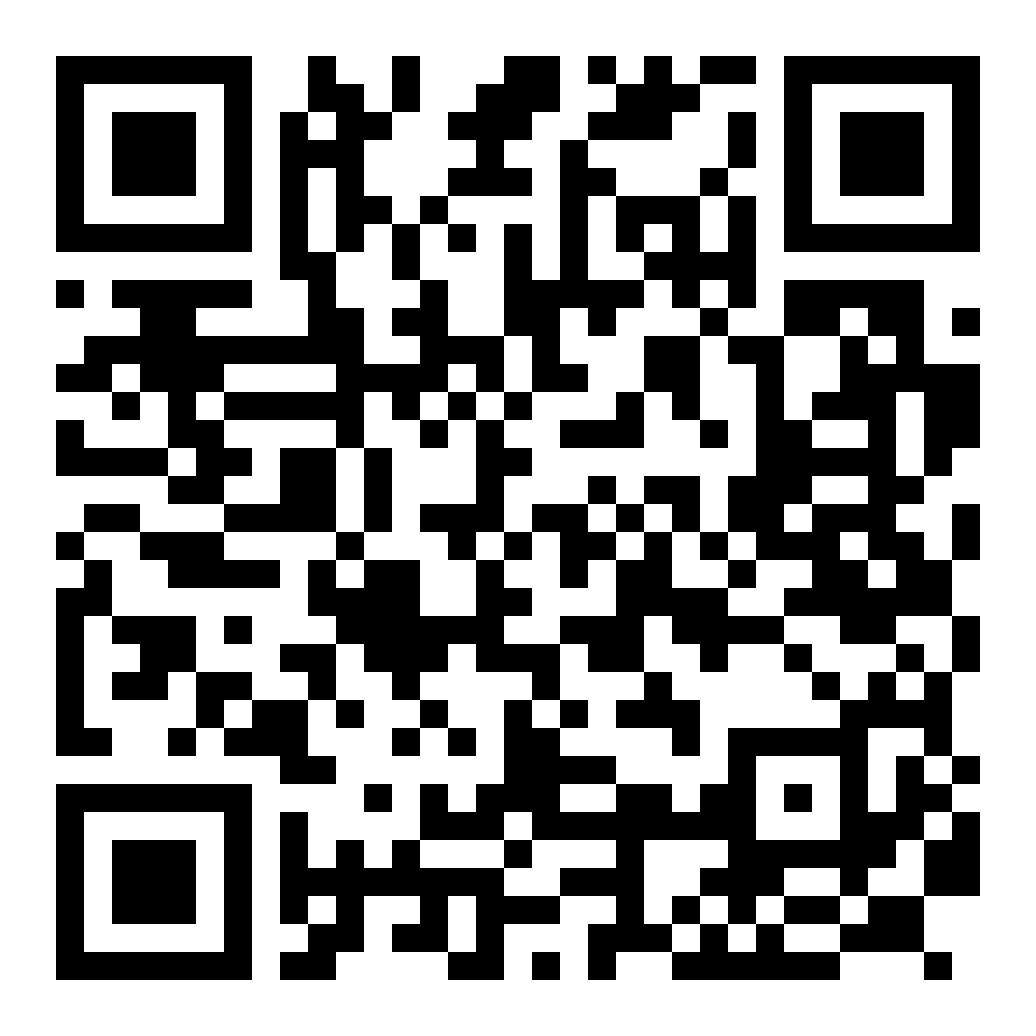
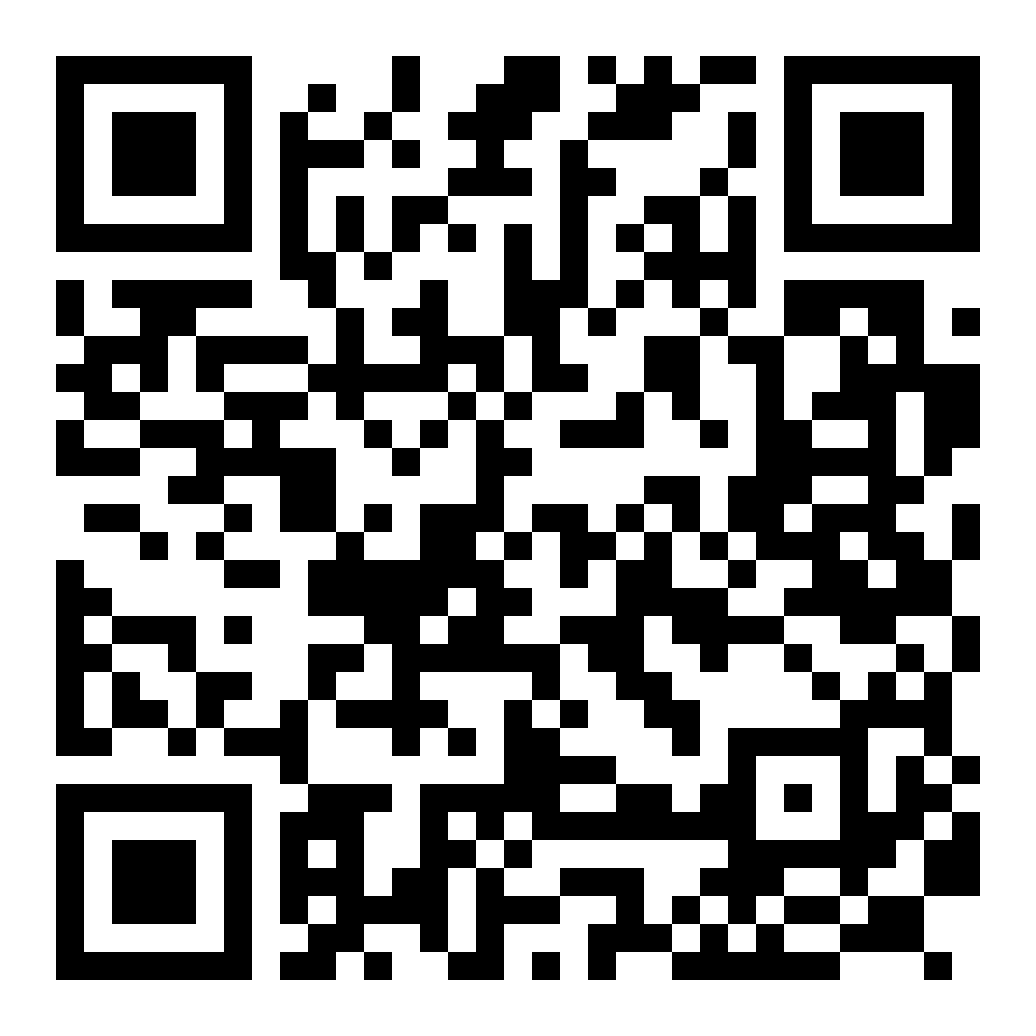
Rename the phone prototype address from /try/ to /app/ and regenerate QR codes
Claude-Session: https://claude.ai/code/session_01W2RcS5fTffBiTh2Dfycv8M

diff --git a/design/qr/README.md b/design/qr/README.md
@@ -2,7 +2,7 @@
 
 > Prepared with AI assistance; to be reviewed by the team. Updated 11 Nov 2026 (decision 31).
 
-Both images open **https://panda-king-0705.github.io/silverguard-ai/try/**, the phone version of the clickable prototype (`try/index.html`, a copy of `design/clickable-screens/app.html`) served as a plain web page by GitHub Pages. No Claude login needed. Each scan opens a separate copy on that visitor's phone.
+Both images open **https://panda-king-0705.github.io/silverguard-ai/app/**, the phone version of the clickable prototype (`app/index.html`, a copy of `design/clickable-screens/app.html`) served as a plain web page by GitHub Pages. No Claude login needed. Each scan opens a separate copy on that visitor's phone.
 
 - `try-silverguard-qr.png`: card with title and "Scan with your phone camera" (slide or printout).
 - `prototype-qr.png`: bare code, 1036 × 1036 px, error correction M (poster). Print at least 2.5 cm wide.
@@ -11,4 +11,4 @@ Both were decoded back with OpenCV to confirm the link.
 
 **One-time setup (repo owner):** GitHub → repository Settings → Pages → Source "Deploy from a branch", branch `main`, folder `/ (root)` → Save. The page is live a minute or two later. The empty `.nojekyll` file makes GitHub serve the files as they are.
 
-**After changing the prototype:** edit `design/clickable-screens/index.html`, run `python3 design/clickable-screens/build_app.py design/clickable-screens/index.html design/clickable-screens/app.html`, copy `app.html` to `try/index.html`, commit and push.
+**After changing the prototype:** edit `design/clickable-screens/index.html`, run `python3 design/clickable-screens/build_app.py design/clickable-screens/index.html design/clickable-screens/app.html`, copy `app.html` to `app/index.html`, commit and push.

diff --git a/design/clickable-screens/README.md b/design/clickable-screens/README.md
@@ -109,4 +109,4 @@ python3 checks/check_browser.py    # click-through flows, language toggle, sizes
 
 ## Phone version for the audience (added 11 Nov 2026)
 
-`app.html` is the same prototype as `index.html`, shown full-screen on a visitor's own phone: no presenter panel, a bottom bar to switch between **Mum's phone** and **Marcus's phone**, a language button (EN, 中文, BM, தமிழ்), a third home button for the practice call (Family Drill), and a short "Try SilverGuard" intro card. It is generated from `index.html` with `python3 build_app.py index.html app.html`; edit `index.html`, then rebuild. The QR code (`design/qr/`) opens `try/index.html` (a copy of `app.html`) on GitHub Pages. Checked on iPhone 13, iPhone SE and Pixel 7 sizes: no sideways scrolling, no console errors. The Chinese, Malay and Tamil strings are still AI drafts until a native speaker checks them.
+`app.html` is the same prototype as `index.html`, shown full-screen on a visitor's own phone: no presenter panel, a bottom bar to switch between **Mum's phone** and **Marcus's phone**, a language button (EN, 中文, BM, தமிழ்), a third home button for the practice call (Family Drill), and a short "Try SilverGuard" intro card. It is generated from `index.html` with `python3 build_app.py index.html app.html`; edit `index.html`, then rebuild. The QR code (`design/qr/`) opens `app/index.html` (a copy of `app.html`) on GitHub Pages. Checked on iPhone 13, iPhone SE and Pixel 7 sizes: no sideways scrolling, no console errors. The Chinese, Malay and Tamil strings are still AI drafts until a native speaker checks them.
